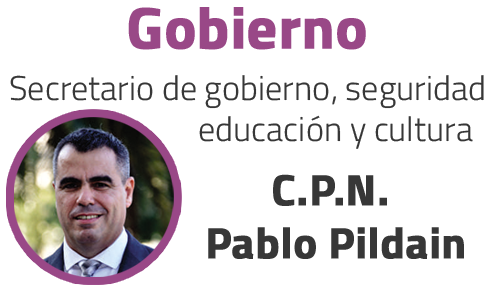
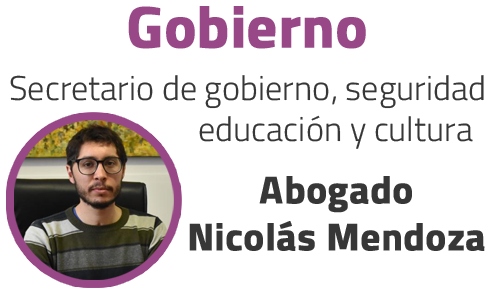
cambios gobierno

diff --git a/index.html b/index.html
@@ -2066,7 +2066,7 @@ https://templatemo.com/tm-563-seo-dream
       <div class="col-lg-6">
         <div class="left-image wow fadeInLeft grid-fotos pt-2" data-wow-duration="1s" data-wow-delay="0.5s">
           <div class="right-image wow fadeInRight" data-wow-duration="1s" data-wow-delay="0.5s">
-            <img id="tarjeta"  src="assets/images/gobierno.png" alt="Pablo Pildain - Secretario de Gobierno, seguridad, educación y cultura" title="Pablo Pildain - Secretario de Gobierno, seguridad, educación y cultura">
+            <img id="tarjeta"  src="assets/images/gobierno.png" alt="Nicolas Mendoza - Secretario de Gobierno, seguridad, educación y cultura" title="Nicolas Mendoza - Secretario de Gobierno, seguridad, educación y cultura">
             <div class="section-heading pt-2">
               <div class="main-green-button scroll-to-section pt-2">
                 <a href="" id="listado" data-toggle="modal" data-target="#modal_gobierno">Ver más</a>
@@ -2408,10 +2408,6 @@ https://templatemo.com/tm-563-seo-dream
               <div class="col">
                 <h6>COORDINACIÓN DE CABILDO XXI:</h6> 
                 <p>Prof. Gabriela Alejandra RAMIREZ</p>
-              </div>
-              <div class="col">
-                <h6>DIRECCIÓN DE ORGANISMOS INSTITUCIONALES:</h6> 
-                <p>Dr. Nicolas MENDOZA</p>
               </div>
             </div>                        
   </div>     
